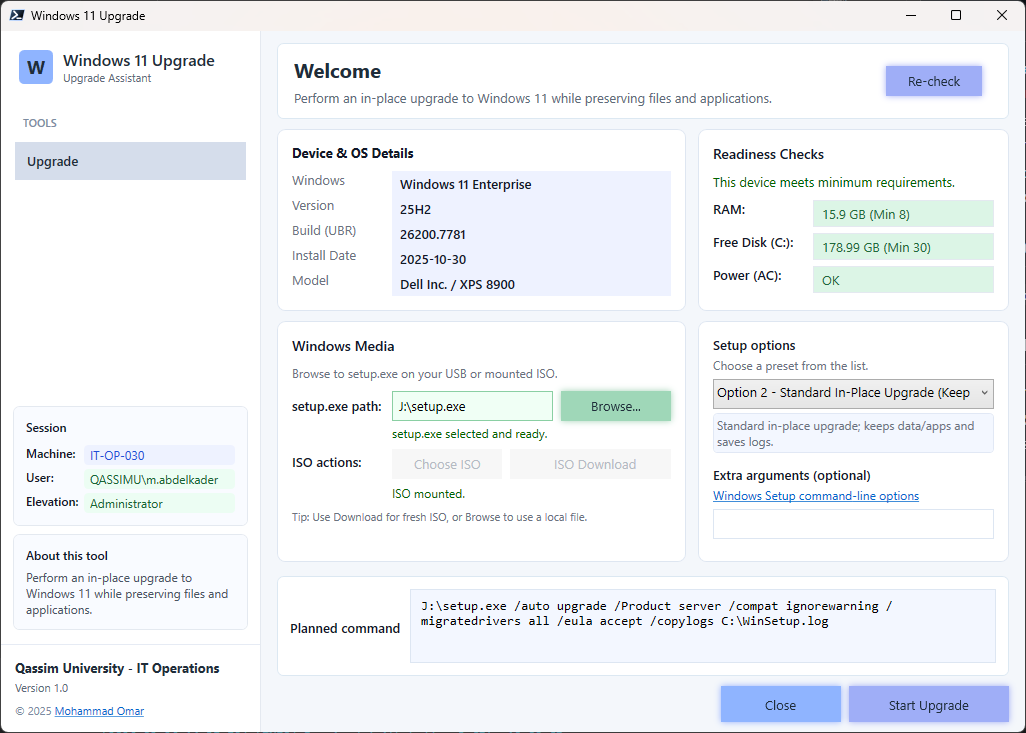
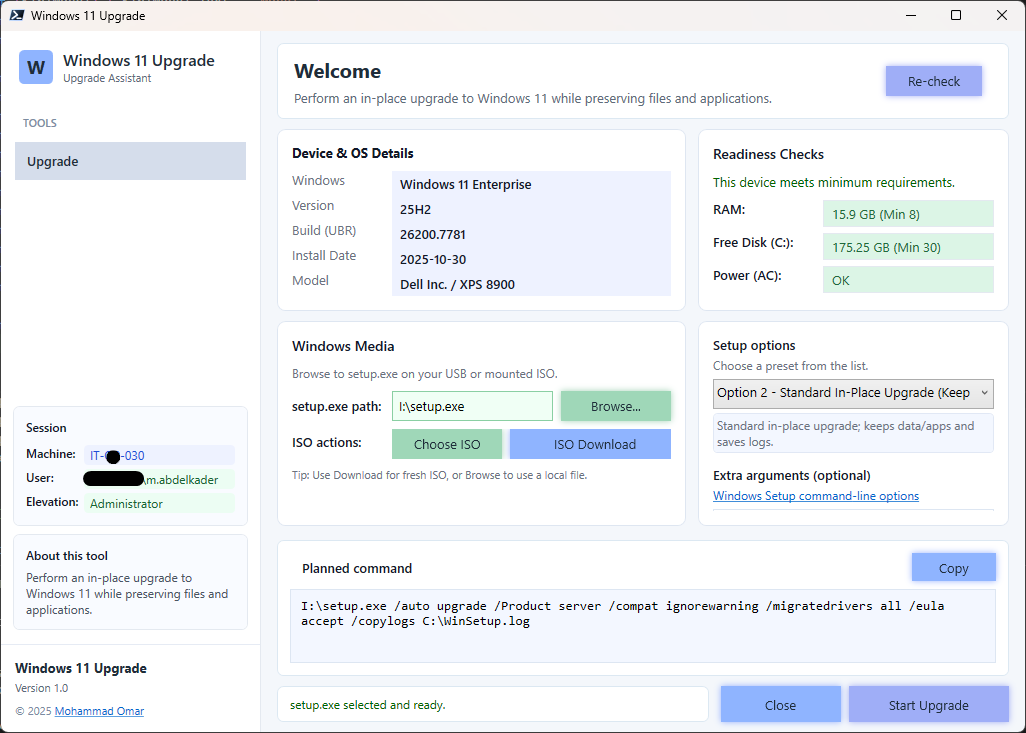
Add files via upload

diff --git a/README.md b/README.md
@@ -8,8 +8,6 @@
 ![Mode](https://img.shields.io/badge/Upgrade-In--Place-brightgreen.svg)
 ![Version](https://img.shields.io/badge/version-1.0-green.svg)
 
-[![Buy Me A Coffee](https://img.shields.io/badge/Buy%20Me%20A%20Coffee-☕-FFDD00?style=for-the-badge)](https://www.buymeacoffee.com/mabdulkadrx)
-
 ---
 
 ## 📖 Overview
@@ -184,13 +182,6 @@ This project is licensed under the [MIT License](https://opensource.org/licenses
 
 ---
 
-## ☕ Donate
-
-If you find this project helpful, consider supporting it by  
-[buying me a coffee](https://www.buymeacoffee.com/mabdulkadrx).
-
----
-
 ## ⚠ Disclaimer
 
 This tool is provided **as-is**.
@@ -198,6 +189,3 @@ This tool is provided **as-is**.
 * Test in staging before production
 * Ensure correct Graph permissions
 * Validate organizational compliance before deployment
-
-
-
